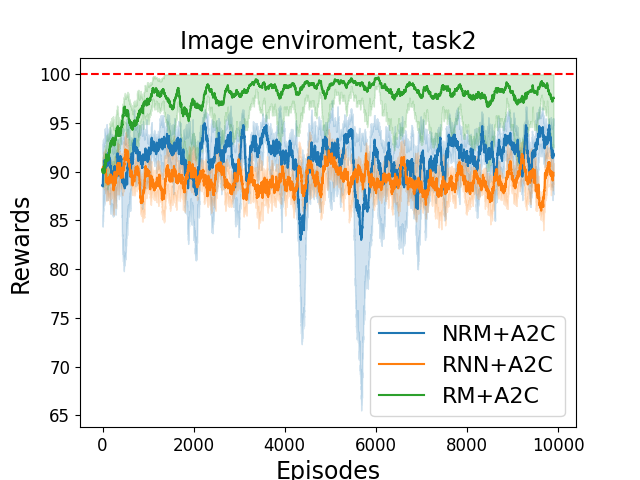
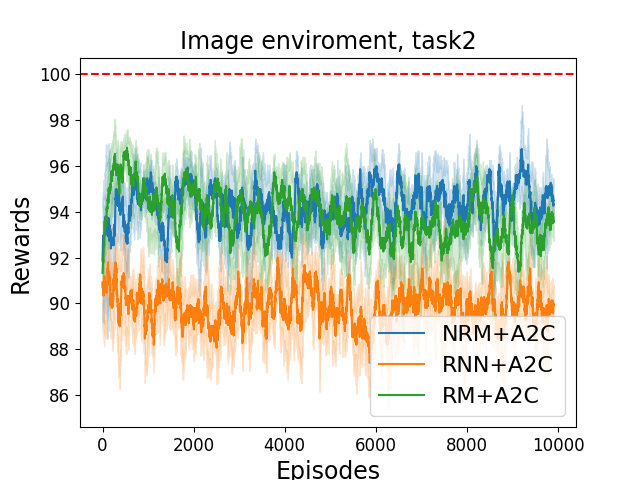
single plots modified

diff --git a/plot_final.py b/plot_final.py
@@ -68,7 +68,7 @@ def triple_plot(source_1, source_2, source_3, task_category, destination, num_ex
     env = GridWorldEnv(formulas[0], "rgb_array", "symbolic", use_dfa_state=False, train=False)
     max_reward = env.max_reward
 
-    title_count = 0
+    title_count = 1
     for idx, formula in enumerate(formulas):
         if idx in task_category:
             print(formula[2])
@@ -119,13 +119,13 @@ def triple_plot(source_1, source_2, source_3, task_category, destination, num_ex
             sns.lineplot(x="variable", y="value", data=df2, label = "RNN+A2C")
             sns.lineplot(x="variable", y="value", data=df3, label = "RM+A2C")
 
-            plt.title(f"Map enviroment, task{title_count}", fontsize=17)
+            plt.title(f"Image enviroment, task{title_count}", fontsize=17)
             plt.axhline(y=max_reward, color='r', linestyle='--')
             plt.tick_params(axis='both', which='both', labelsize=12)
             plt.xlabel("Episodes", fontsize=17)
             plt.ylabel("Rewards", fontsize=17)
             plt.legend(loc = "lower right", fontsize=16)
-            plt.savefig(destination+f"/task{title_count}_nrm_vs_rnn_vs_rm_map.png")
+            plt.savefig(destination+f"/task{title_count}_nrm_vs_rnn_vs_rm_image.png")
             plt.clf()
 
             title_count+=1
@@ -167,9 +167,9 @@ def plot_sequence(source_1, task_category, destination, num_exp):
     plt.savefig(destination+"/second_class_sequence_classification_image.png")
     plt.clf()
 
-SOURCE_PATH_RNN = "Results/RNN_MAP/"
-SOURCE_PATH_GROUND = "Results/GROUNDED_MAP"
-SOURCE_PATH_RM = "Results/RM_MAP"
+SOURCE_PATH_RNN = "Results/RNN_CNN/"
+SOURCE_PATH_GROUND = "Results/GROUNDED_CNN"
+SOURCE_PATH_RM = "Results/RM_CNN"
 DESTINATION_PATH = "Plots/Single_Tasks"
 
 TASKS = [0, 1, 2, 4, 6, 7, 8, 9]
